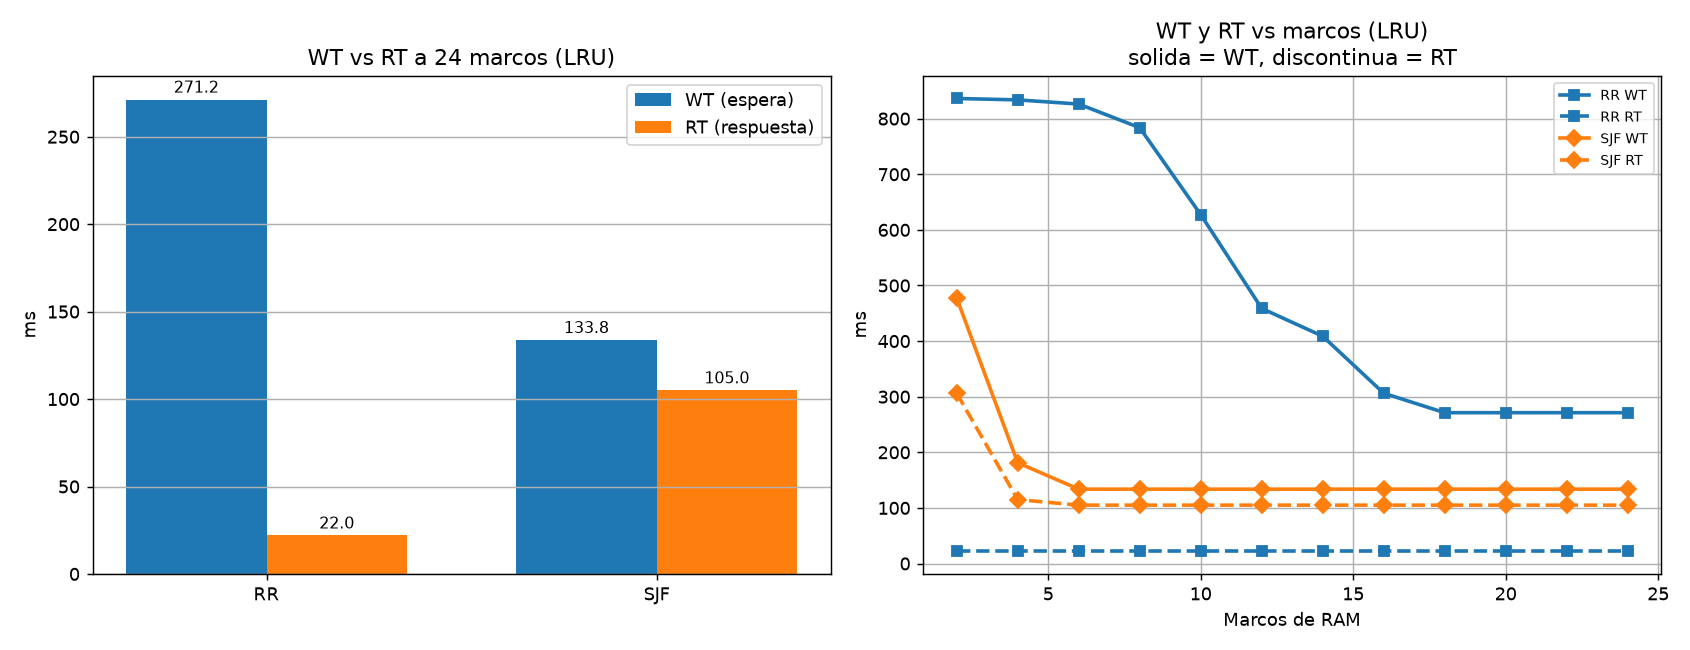
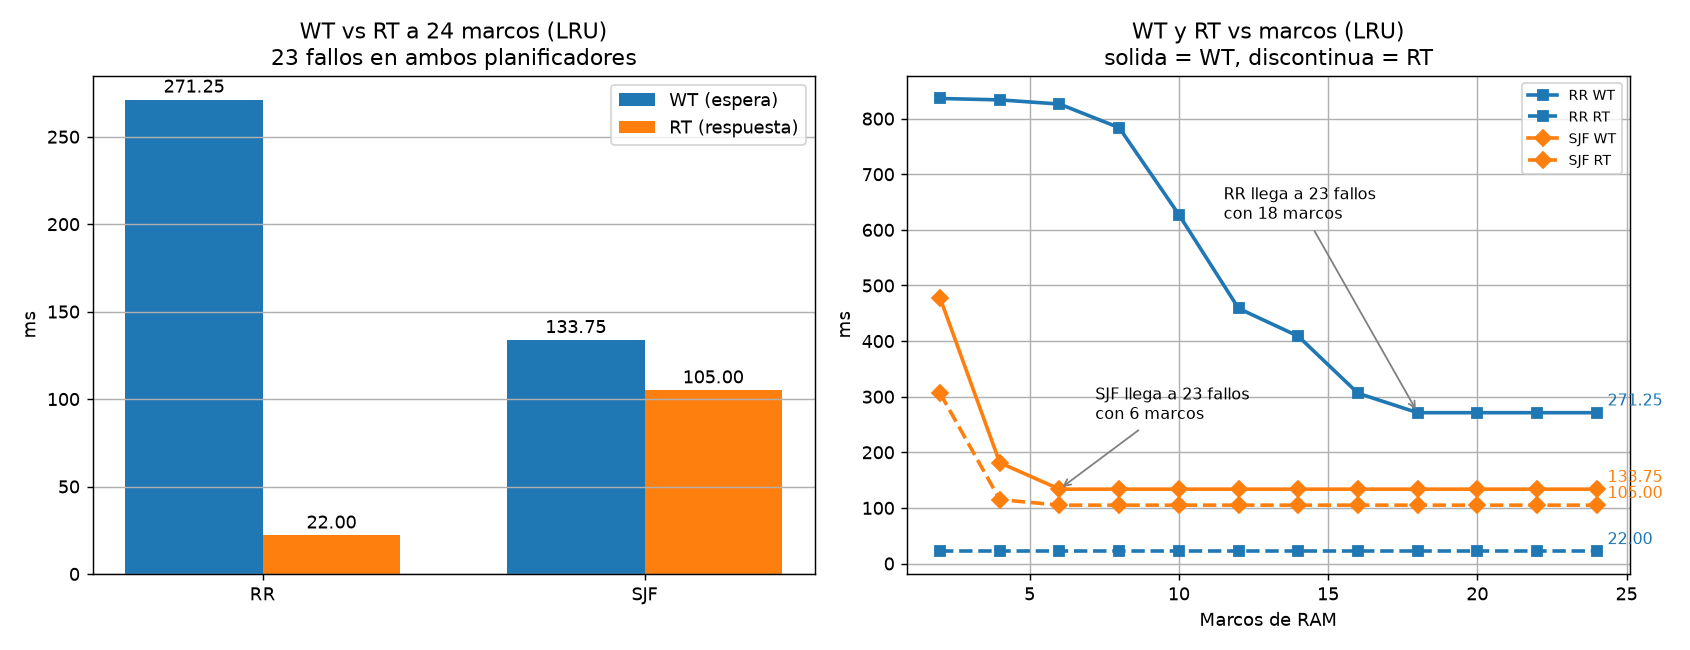
final

diff --git a/Entregable3/generar_graficos.py b/Entregable3/generar_graficos.py
@@ -124,11 +124,11 @@ b1 = ax[0].bar([i - ancho / 2 for i in pos], wt, ancho, label="WT (espera)", col
 b2 = ax[0].bar([i + ancho / 2 for i in pos], rt, ancho, label="RT (respuesta)", color="tab:orange")
 for b in list(b1) + list(b2):
     ax[0].text(b.get_x() + b.get_width() / 2, b.get_height() + 4,
-            f"{b.get_height():.1f}", ha="center", fontsize=9)
+            f"{b.get_height():.2f}", ha="center", fontsize=10)
 ax[0].set_xticks(pos)
 ax[0].set_xticklabels(planes)
 ax[0].set_ylabel("ms")
-ax[0].set_title("WT vs RT a 24 marcos (LRU)")
+ax[0].set_title("WT vs RT a 24 marcos (LRU)\n23 fallos en ambos planificadores")
 ax[0].legend()
 ax[0].grid(True, axis="y")
 
@@ -137,6 +137,18 @@ for plan, c, m in [("RR", "tab:blue", "s"), ("SJF", "tab:orange", "D")]:
     s = d[(d.Planificador == plan) & (d.Algoritmo == "LRU")].sort_values("MarcosRAM")
     ax[1].plot(s.MarcosRAM, s.AVG_WT, marker=m, color=c, lw=2, ls="-", label=f"{plan} WT")
     ax[1].plot(s.MarcosRAM, s.AVG_RT, marker=m, color=c, lw=2, ls="--", label=f"{plan} RT")
+    last = s.iloc[-1]
+    ax[1].annotate(f"{last.AVG_WT:.2f}", (last.MarcosRAM, last.AVG_WT),
+                   textcoords="offset points", xytext=(6, 4), fontsize=9, color=c)
+    ax[1].annotate(f"{last.AVG_RT:.2f}", (last.MarcosRAM, last.AVG_RT),
+                   textcoords="offset points", xytext=(6, 4), fontsize=9, color=c)
+for plan, xoff in [("SJF", (7.2, 260)), ("RR", (11.5, 620))]:
+    s = d[(d.Planificador == plan) & (d.Algoritmo == "LRU")].sort_values("MarcosRAM")
+    hit = s[s.TotalPageFaults == s.TotalPageFaults.min()].iloc[0]
+    ax[1].annotate(
+        f"{plan} llega a {int(hit.TotalPageFaults)} fallos\ncon {int(hit.MarcosRAM)} marcos",
+        xy=(hit.MarcosRAM, hit.AVG_WT), xytext=xoff,
+        fontsize=9, arrowprops=dict(arrowstyle="->", color="gray"))
 ax[1].set_xlabel("Marcos de RAM")
 ax[1].set_ylabel("ms")
 ax[1].set_title("WT y RT vs marcos (LRU)\nsolida = WT, discontinua = RT")
